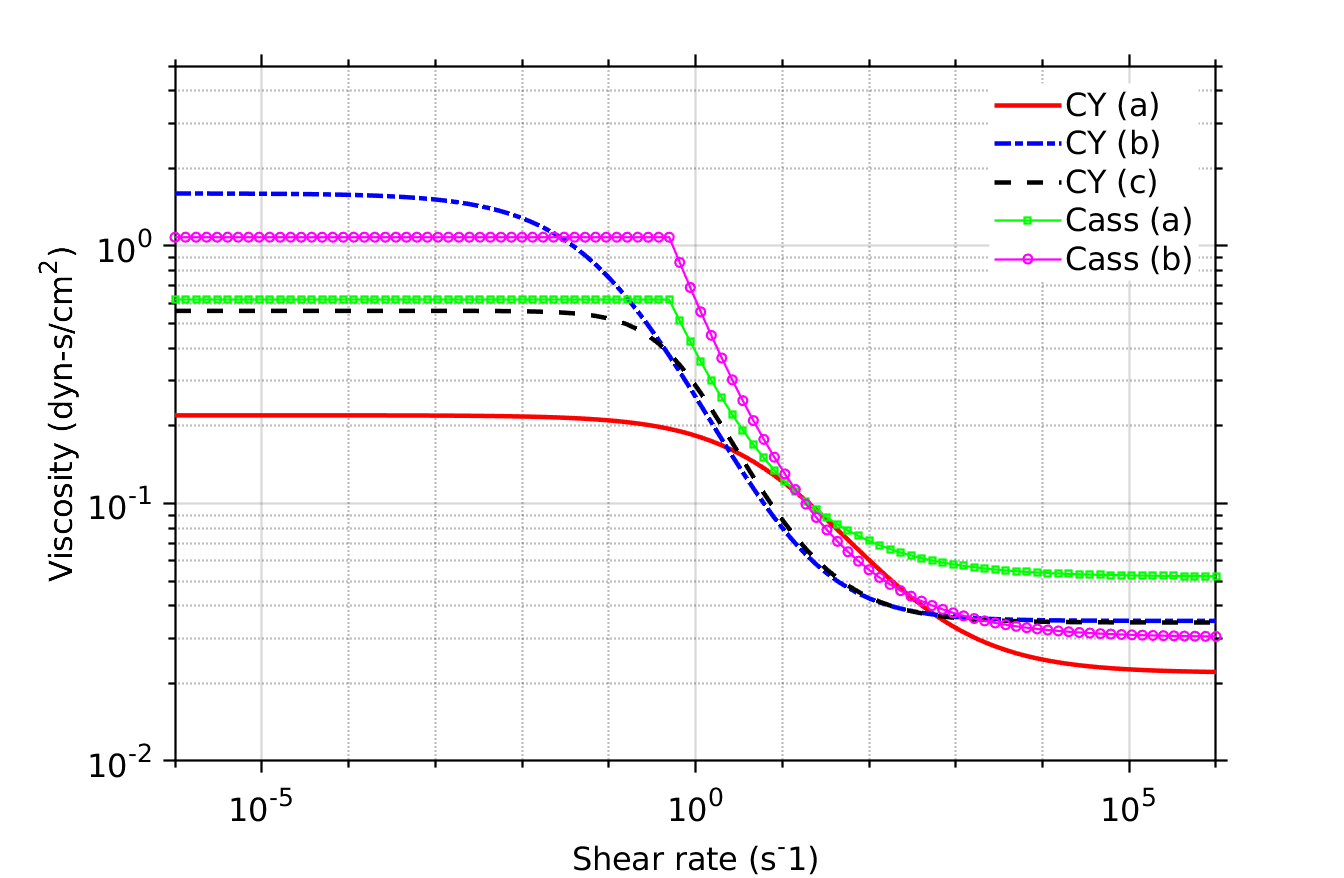
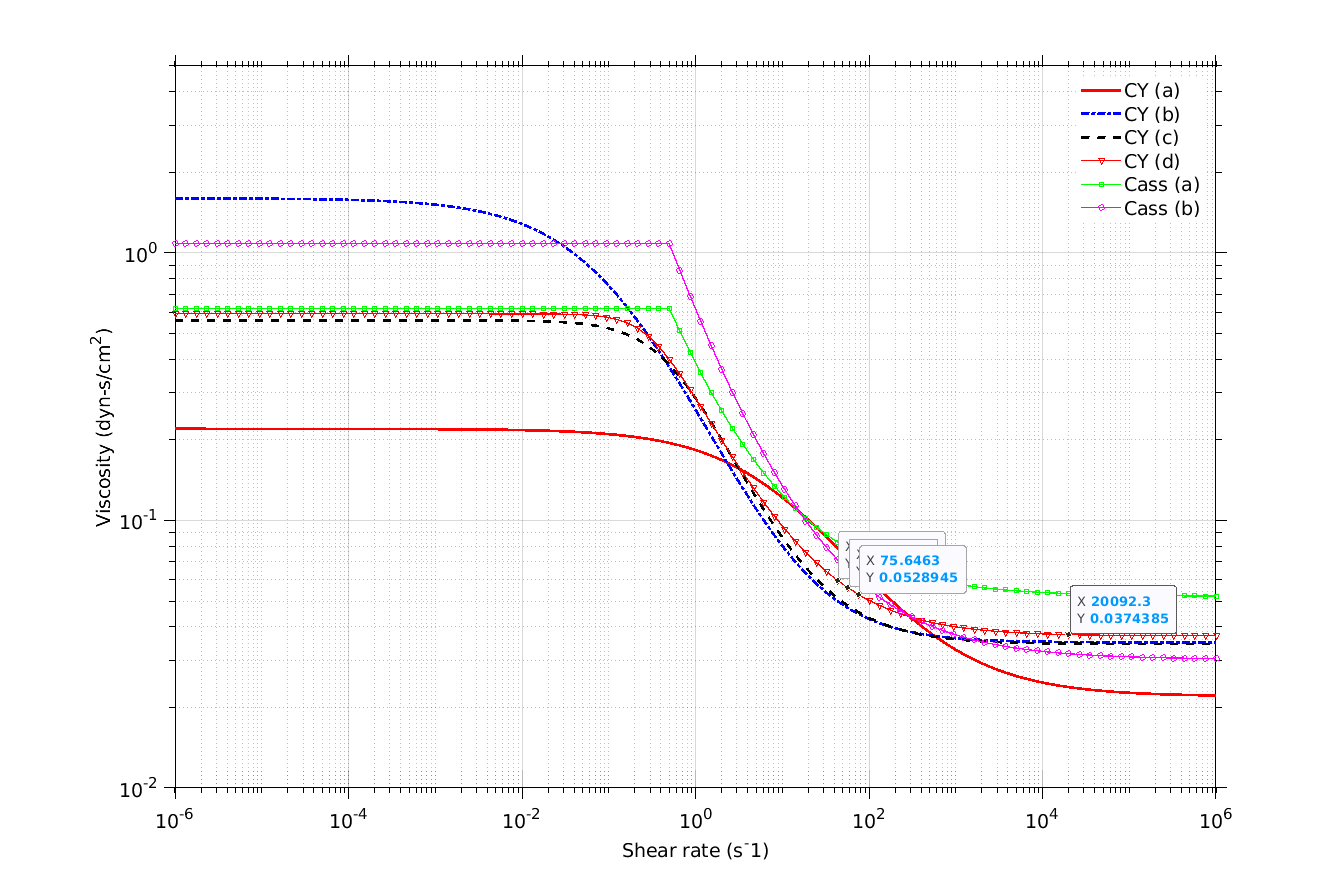
Some minor changes to the fiber computation code and nonNewtonian viscosity model

diff --git a/cardiac/myofibers/univ_myo_layers_fibers_nodes.py b/cardiac/myofibers/univ_myo_layers_fibers_nodes.py
@@ -13,25 +13,15 @@ DATASTR1 = 'Phi_EPI'
 DATASTR2 = 'Phi_AB'
 
 #----------------------------------------------------------------------
-# Define thersholds for domains
-# Epicardium - Myocardium
-EPI_MYO = 0.8
-# Endocardium - Myocardium
-END_MYO = 0.2
-# Medial - Basal
-MID_BAS = 0.99
-#----------------------------------------------------------------------
-
-#----------------------------------------------------------------------
 # Define fiber and sheet angles
 # Fiber angle at endocardium
 ALFA_END = (+40.0)*PI/180.0
 # Fiber angle at epicardium
 ALFA_EPI = (-50.0)*PI/180.0
 # Sheet angle at endocardium
-BETA_END = (-60.0)*PI/180.0
+BETA_END = (-65.0)*PI/180.0
 # Sheet angle at epicardium
-BETA_EPI = (+20.0)*PI/180.0
+BETA_EPI = (+25.0)*PI/180.0
 #----------------------------------------------------------------------
 
 #----------------------------------------------------------------------
@@ -109,7 +99,7 @@ def loadLaplaceSoln(fileName):
 
     gradFilter.SetInputScalars(vtk.vtkDataObject.FIELD_ASSOCIATION_POINTS,\
         DATASTR2)
-    gradFilter.SetResultArrayName(DATASTR4 + '_pgrad')
+    gradFilter.SetResultArrayName(DATASTR2 + '_pgrad')
     gradFilter.Update()
     vtuMesh = gradFilter.GetOutput()
     nPhiAB  = vtuMesh.GetPointData().GetArray(DATASTR2)
@@ -260,8 +250,8 @@ def getFiberDirections(vtuMesh, vtuPhiEP, vtuGPhiEP, vtuGPhiAB):
     numPoints = vtuMesh.GetNumberOfPoints()
     print ("   Computing fiber directions at points")
     F = createVTKDataArray("double", 3, numPoints, "FIB_DIR1")
-    S = createVTKDataArray("double", 3, numPoints, "FIB_DIR2")
-    T = createVTKDataArray("double", 3, numPoints, "FIB_DIR3")
+    T = createVTKDataArray("double", 3, numPoints, "FIB_DIR2")
+    S = createVTKDataArray("double", 3, numPoints, "FIB_DIR3")
 
     j = 1
     k = 1
@@ -289,7 +279,7 @@ def getFiberDirections(vtuMesh, vtuPhiEP, vtuGPhiEP, vtuGPhiAB):
             j = int(float((k-1)*numPoints)/10.0)
     print ("[Done!]")
 
-    return F, S, T
+    return F, T, S
 #----------------------------------------------------------------------
 
 #----------------------------------------------------------------------
@@ -301,15 +291,19 @@ if __name__ == '__main__':
     fileName = "results_laplace/result_040.vtu"
     vtuMesh, phiEP, phiAB, gPhiEP, gPhiAB = loadLaplaceSoln(fileName)
 
-    F, S, T = getFiberDirections(vtuMesh, phiEP, gPhiEP, gPhiAB)
+    # Fiber directions use convention from Bayer et al.
+    #    F: longitudinal fiber direction
+    #    T: transverse or sheet orientation
+    #    S: sheet-normal direction
+    F, T, S = getFiberDirections(vtuMesh, phiEP, gPhiEP, gPhiAB)
 
     cphiEP, cphiAB = loadLaplaceSolnCells(fileName)
     dmnIDs = setDomainID(vtuMesh, cphiEP, cphiAB)
 
     print ("   Writing fibers and domains to VTK data structure")
     vtuMesh.GetPointData().AddArray(F)
-    vtuMesh.GetPointData().AddArray(S)
     vtuMesh.GetPointData().AddArray(T)
+    # vtuMesh.GetPointData().AddArray(S)
 
     vtuMesh.GetCellData().AddArray(dmnIDs)
 

diff --git a/cardiac/myofibers/biv_myo_layers_fibers_nodes.py b/cardiac/myofibers/biv_myo_layers_fibers_nodes.py
@@ -31,9 +31,9 @@ ALFA_END = (+40.0)*PI/180.0
 # Fiber angle at epicardium
 ALFA_EPI = (-50.0)*PI/180.0
 # Sheet angle at endocardium
-BETA_END = (-60.0)*PI/180.0
+BETA_END = (-65.0)*PI/180.0
 # Sheet angle at epicardium
-BETA_EPI = (+20.0)*PI/180.0
+BETA_EPI = (+25.0)*PI/180.0
 #----------------------------------------------------------------------
 
 #----------------------------------------------------------------------
@@ -455,8 +455,8 @@ def getFiberDirections(vtuMesh, vtuPhiEP, vtuPhiLV, vtuPhiRV, \
     numPoints = vtuMesh.GetNumberOfPoints()
     print("   Computing fiber directions at points")
     F = createVTKDataArray("double", 3, numPoints, "FIB_DIR1")
-    S = createVTKDataArray("double", 3, numPoints, "FIB_DIR2")
-    T = createVTKDataArray("double", 3, numPoints, "FIB_DIR3")
+    T = createVTKDataArray("double", 3, numPoints, "FIB_DIR2")
+    S = createVTKDataArray("double", 3, numPoints, "FIB_DIR3")
 
     j = 1
     k = 1
@@ -504,7 +504,7 @@ def getFiberDirections(vtuMesh, vtuPhiEP, vtuPhiLV, vtuPhiRV, \
             j = int(float((k-1)*numPoints)/10.0)
     print("[Done!]")
 
-    return F, S, T
+    return F, T, S
 #----------------------------------------------------------------------
 
 #----------------------------------------------------------------------
@@ -517,7 +517,11 @@ if __name__ == '__main__':
     vtuMesh, phiEP, phiLV, phiRV, phiAB, \
         gPhiEP, gPhiLV, gPhiRV, gPhiAB = loadLaplaceSoln(fileName)
 
-    F, S, T = getFiberDirections(vtuMesh, phiEP, phiLV, phiRV, \
+    # Fiber directions use convention from Bayer et al.
+    #    F: longitudinal fiber direction
+    #    T: transverse or sheet orientation
+    #    S: sheet-normal direction
+    F, T, S = getFiberDirections(vtuMesh, phiEP, phiLV, phiRV, \
         gPhiEP, gPhiLV, gPhiRV, gPhiAB)
 
     cphiEP, cphiLV, cphiRV, cphiAB = loadLaplaceSolnCells(fileName)
@@ -525,8 +529,8 @@ if __name__ == '__main__':
 
     print("   Writing fibers and domains to VTK data structure")
     vtuMesh.GetPointData().AddArray(F)
-    vtuMesh.GetPointData().AddArray(S)
     vtuMesh.GetPointData().AddArray(T)
+    # vtuMesh.GetPointData().AddArray(S)
 
     vtuMesh.GetCellData().AddArray(dmnIDs)
 

diff --git a/cardiac/myofibers/univ_myo_fibers_cells.py b/cardiac/myofibers/univ_myo_fibers_cells.py
@@ -12,16 +12,6 @@ DATASTR1 = 'Phi_EPI'
 DATASTR2 = 'Phi_AB'
 
 #----------------------------------------------------------------------
-# Define thersholds for domains
-# Epicardium - Myocardium
-EPI_MYO = 0.8
-# Endocardium - Myocardium
-END_MYO = 0.2
-# Medial - Basal
-MID_BAS = 0.99
-#----------------------------------------------------------------------
-
-#----------------------------------------------------------------------
 # Define fiber and sheet angles
 # Fiber angle at endocardium
 ALFA_END = (+40.0)*PI/180.0
@@ -128,29 +118,6 @@ def loadLaplaceSoln(fileName):
     vtuMesh.GetCellData().RemoveArray(DATASTR2+'_grad')
 
     return vtuMesh, cPhiEP, cPhiAB, cGPhiEP, cGPhiAB
-#----------------------------------------------------------------------
-
-#----------------------------------------------------------------------
-def setDomainID(vtuMesh, vtuPhiEP, vtuPhiAB):
-
-    print ("   Setting domain IDs at cells")
-    numCell = vtuMesh.GetNumberOfCells()
-    dmnIDs  = createVTKDataArray("int", 1, numCell, "DOMAIN_ID")
-
-    for iCell in xrange(0, numCell):
-        phiEP = vtuPhiEP.GetTuple1(iCell)
-        phiAB = vtuPhiAB.GetTuple1(iCell)
-
-        dmnID = 2
-        if phiEP >= EPI_MYO:
-            dmnID = 3
-        if (phiEP <= END_MYO):
-            dmnID = 1
-        if phiAB >= MID_BAS:
-            dmnID = 0
-        dmnIDs.SetTuple1(iCell, dmnID)
-
-    return dmnIDs
 #----------------------------------------------------------------------
 
 #----------------------------------------------------------------------
@@ -265,8 +232,6 @@ if __name__ == '__main__':
     #    S: sheet-normal direction
     F, T, S = getFiberDirections(vtuMesh, phiEP, gPhiEP, gPhiAB)
 
-    dmnIDs = setDomainID(vtuMesh, phiEP, phiAB)
-
     print ("   Writing fibers and domains to VTK data structure")
     vtuMesh.GetCellData().AddArray(F)
     vtuMesh.GetCellData().AddArray(T)
@@ -274,7 +239,7 @@ if __name__ == '__main__':
 
     vtuMesh.GetCellData().AddArray(dmnIDs)
 
-    fileName = "fibers_domains.vtu"
+    fileName = "fibers.vtu"
     vtuWriter = vtk.vtkXMLUnstructuredGridWriter()
     vtuWriter.SetInputData(vtuMesh)
     vtuWriter.SetFileName(fileName)

diff --git a/nonNewt/Compare_nonNewtonian_models.m b/nonNewt/Compare_nonNewtonian_models.m
@@ -6,23 +6,23 @@ mu = zeros(ns,5);
 mu_x = zeros(ns,5);
 
 % Carreau-Yasuda model
-mu_i = [0.022, 0.035, 0.0345]';
-mu_o = [0.22, 1.6, 0.56]';
-lam = [0.11, 8.2, 1.902]';
-a = [0.644, 0.64, 1.25]';
-n = [0.392, 0.2128, 0.22]';
+mu_i = [0.022, 0.035, 0.0345, 0.037]';
+mu_o = [0.22, 1.6, 0.56, 0.592]';
+lam = [0.11, 8.2, 1.902, 3.313]';
+a = [0.644, 0.64, 1.25, 2.0]';
+n = [0.392, 0.2128, 0.22, 0.3568]';
 
 % Cassons model
-mu_i(4) = 0.22803;
-mu_i(5) = 0.1739;
+mu_i(5) = 0.22803;
+mu_i(6) = 0.1739;
 
-mu_o(4) = 0.3953;
-mu_o(5) = 0.6125;
+mu_o(5) = 0.3953;
+mu_o(6) = 0.6125;
 
-strL = ["CY (a)"; "CY (b)"; "CY (c)"; "Cass (a)"; "Cass (b)"];
+strL = ["CY (a)"; "CY (b)"; "CY (c)"; "CY (d)"; "Cass (a)"; "Cass (b)"];
 for i=1:ns
-    for j=1:5
-        if j<=3
+    for j=1:6
+        if j<=4
             mu(i,j) = mu_i(j) + (mu_o(j)-mu_i(j))*...
                 (1+(lam(j)*sr(i))^a(j))^((n(j)-1)/a(j));
             mu_x(i,j) = (mu_o(j)-mu_i(j))*(n(j)-1)*(lam(j)^a(j))*...
@@ -40,10 +40,10 @@ for i=1:ns
 end
 
 fid = fopen('visc_nonNewt.dat','w');
-fprintf(fid,'Variables=s, CYa, CYb, CYc, Cassa, Cassb\n');
+fprintf(fid,'Variables=s, CYa, CYb, CYc, CYd, Cassa, Cassb\n');
 for i=1:ns
     fprintf(fid,'%.9f', sr(i));
-    for j=1:5
+    for j=1:6
         fprintf(fid,'   %.9f', mu(i,j));
     end
     fprintf(fid,'\n');
@@ -65,10 +65,12 @@ figure('units','normalized','outerposition',[0.05 0.3 0.35 0.45]);
         'DisplayName', strL(2));
     plot(sr, mu(:,3), 'k--', 'Linewidth', 2.0, ...
         'DisplayName', strL(3));
-    plot(sr, mu(:,4), 'g-s', 'Linewidth', 1.0, ...
+    plot(sr, mu(:,4), 'r-v', 'Linewidth', 1.0, ...
         'MarkerSize', 4, 'DisplayName', strL(4));
-    plot(sr, mu(:,5), 'm-o', 'Linewidth', 1.0, ...
+    plot(sr, mu(:,5), 'g-s', 'Linewidth', 1.0, ...
         'MarkerSize', 4, 'DisplayName', strL(5));
+    plot(sr, mu(:,6), 'm-o', 'Linewidth', 1.0, ...
+        'MarkerSize', 4, 'DisplayName', strL(6));
     hold off;
 
     set(gca, 'FontName', fontName, 'FontSize',...

diff --git a/cardiac/myofibers/biv_myo_layers_fibers_cells.py b/cardiac/myofibers/biv_myo_layers_fibers_cells.py
@@ -391,8 +391,8 @@ def getFiberDirections(vtuMesh, vtuPhiEP, vtuPhiLV, vtuPhiRV, \
     numCell = vtuMesh.GetNumberOfCells()
     print "   Computing fiber directions at cells"
     F = createVTKDataArray("double", 3, numCell, "FIB_DIR1")
-    S = createVTKDataArray("double", 3, numCell, "FIB_DIR2")
-    T = createVTKDataArray("double", 3, numCell, "FIB_DIR3")
+    T = createVTKDataArray("double", 3, numCell, "FIB_DIR2")
+    S = createVTKDataArray("double", 3, numCell, "FIB_DIR3")
 
     j = 1
     k = 1
@@ -440,7 +440,7 @@ def getFiberDirections(vtuMesh, vtuPhiEP, vtuPhiLV, vtuPhiRV, \
             j = int(float((k-1)*numCell)/10.0)
     print "[Done!]"
 
-    return F, S, T
+    return F, T, S
 #----------------------------------------------------------------------
 
 #----------------------------------------------------------------------
@@ -453,15 +453,19 @@ if __name__ == '__main__':
     vtuMesh, phiEP, phiLV, phiRV, phiAB, \
         gPhiEP, gPhiLV, gPhiRV, gPhiAB = loadLaplaceSoln(fileName)
 
-    F, S, T = getFiberDirections(vtuMesh, phiEP, phiLV, phiRV, \
+    # Fiber directions use convention from Bayer et al.
+    #    F: longitudinal fiber direction
+    #    T: transverse or sheet orientation
+    #    S: sheet-normal direction
+    F, T, S = getFiberDirections(vtuMesh, phiEP, phiLV, phiRV, \
         gPhiEP, gPhiLV, gPhiRV, gPhiAB)
 
     dmnIDs = setDomainID(vtuMesh, phiEP, phiLV, phiRV, phiAB)
 
     print "   Writing fibers and domains to VTK data structure"
     vtuMesh.GetCellData().AddArray(F)
-    vtuMesh.GetCellData().AddArray(S)
     vtuMesh.GetCellData().AddArray(T)
+    # vtuMesh.GetCellData().AddArray(S)
 
     vtuMesh.GetCellData().AddArray(dmnIDs)
 
